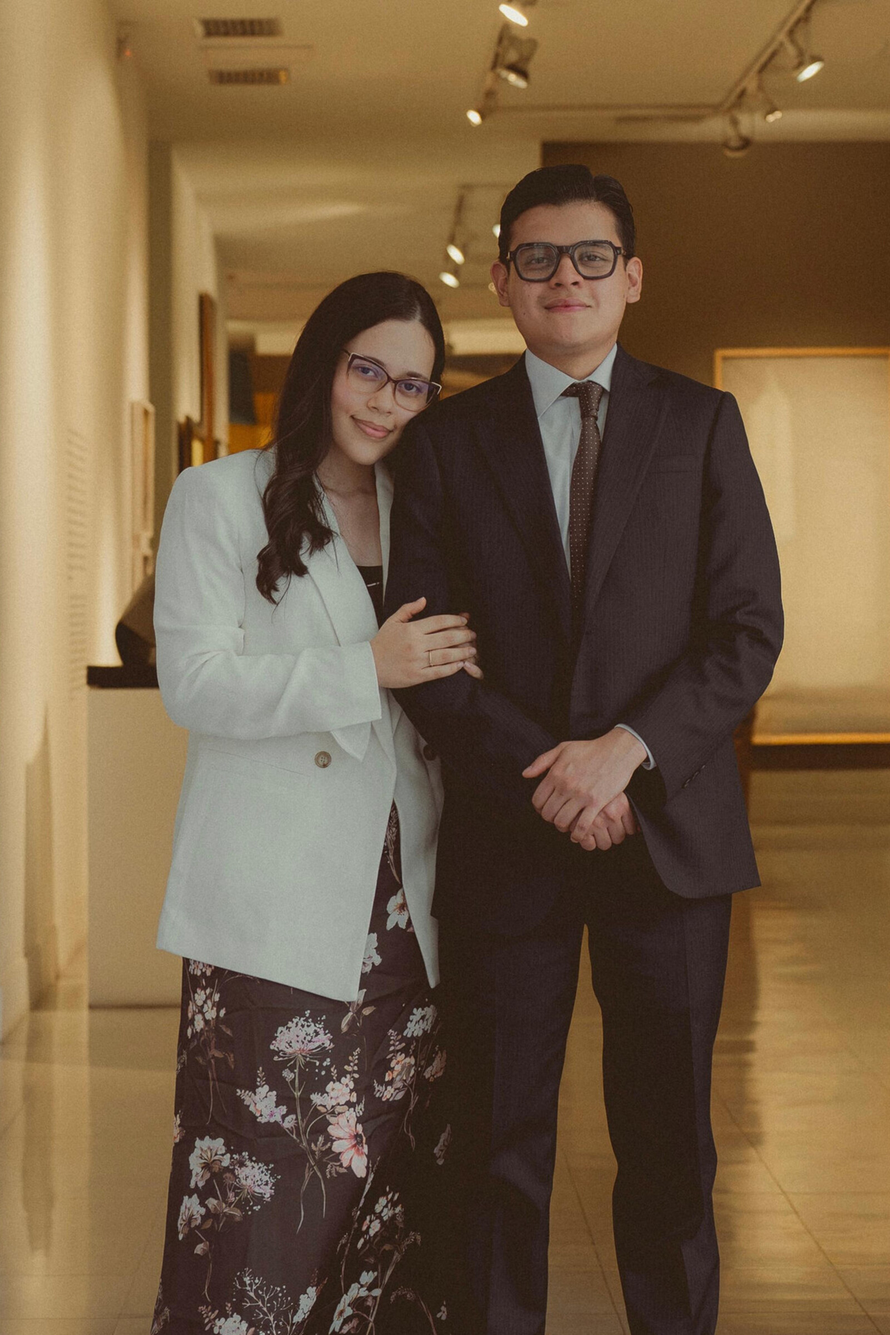
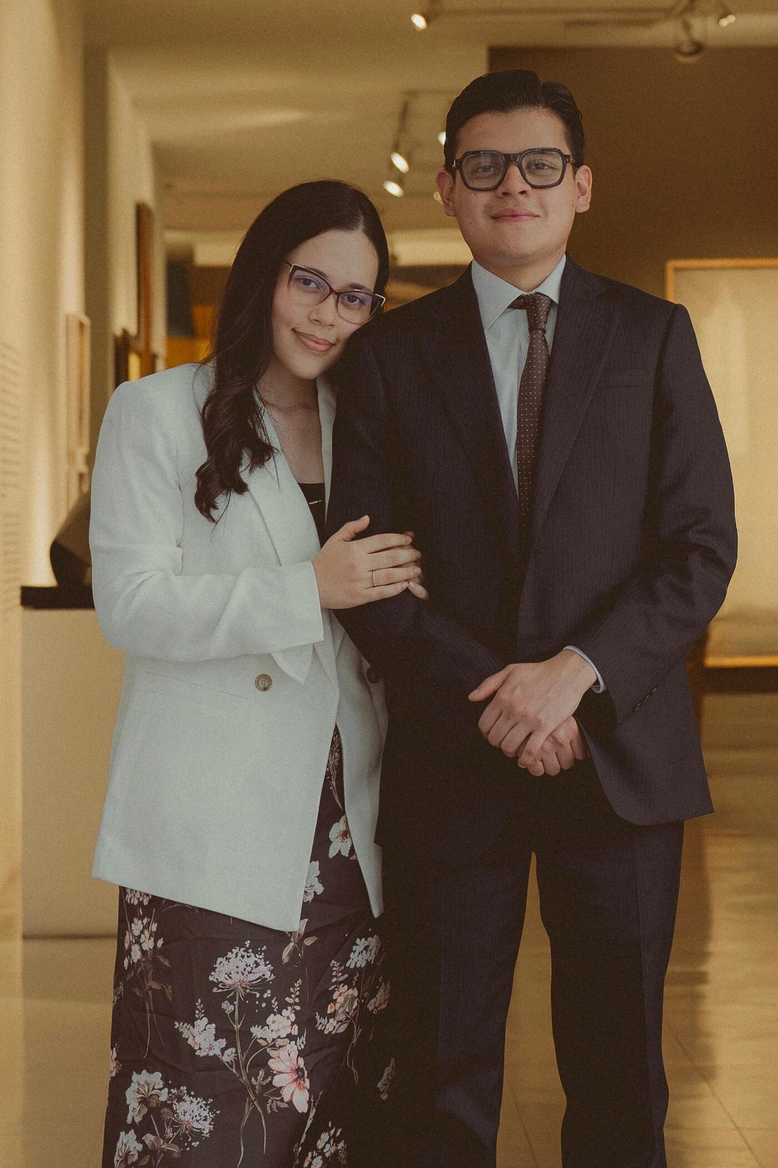
Encuadrar caras de Daniel y Manuela en el hero
object-top y recorte centrado en el rostro para que la foto se vea.

diff --git a/src/app/page.tsx b/src/app/page.tsx
@@ -8,18 +8,18 @@ export default function Home() {
   return (
     <main className="flex-1 overflow-x-hidden">
       {/* Hero */}
-      <section className="relative flex min-h-[100svh] items-end justify-center overflow-hidden pb-16 pt-0 sm:pb-20">
+      <section className="relative min-h-[100svh] overflow-hidden">
         <Image
           src={wedding.heroImage}
           alt={wedding.namesDisplay}
           fill
           priority
-          className="object-cover object-[center_30%] sm:object-center"
+          className="object-cover object-top"
           sizes="100vw"
         />
-        <div className="hero-veil absolute inset-0 z-[1]" />
+        <div className="pointer-events-none absolute inset-0 z-[1] bg-gradient-to-b from-black/10 via-transparent to-night/85" />
         <div className="film-grain z-[2]" />
-        <div className="relative z-10 mx-auto flex w-full max-w-4xl flex-col items-center px-6 pb-4 text-center">
+        <div className="absolute inset-x-0 bottom-0 z-10 mx-auto flex w-full max-w-4xl flex-col items-center px-6 pb-14 pt-32 text-center sm:pb-16">
           <p className="animate-fade-up text-[11px] uppercase tracking-[0.5em] text-champagne sm:text-xs">
             {wedding.tagline}
           </p>
